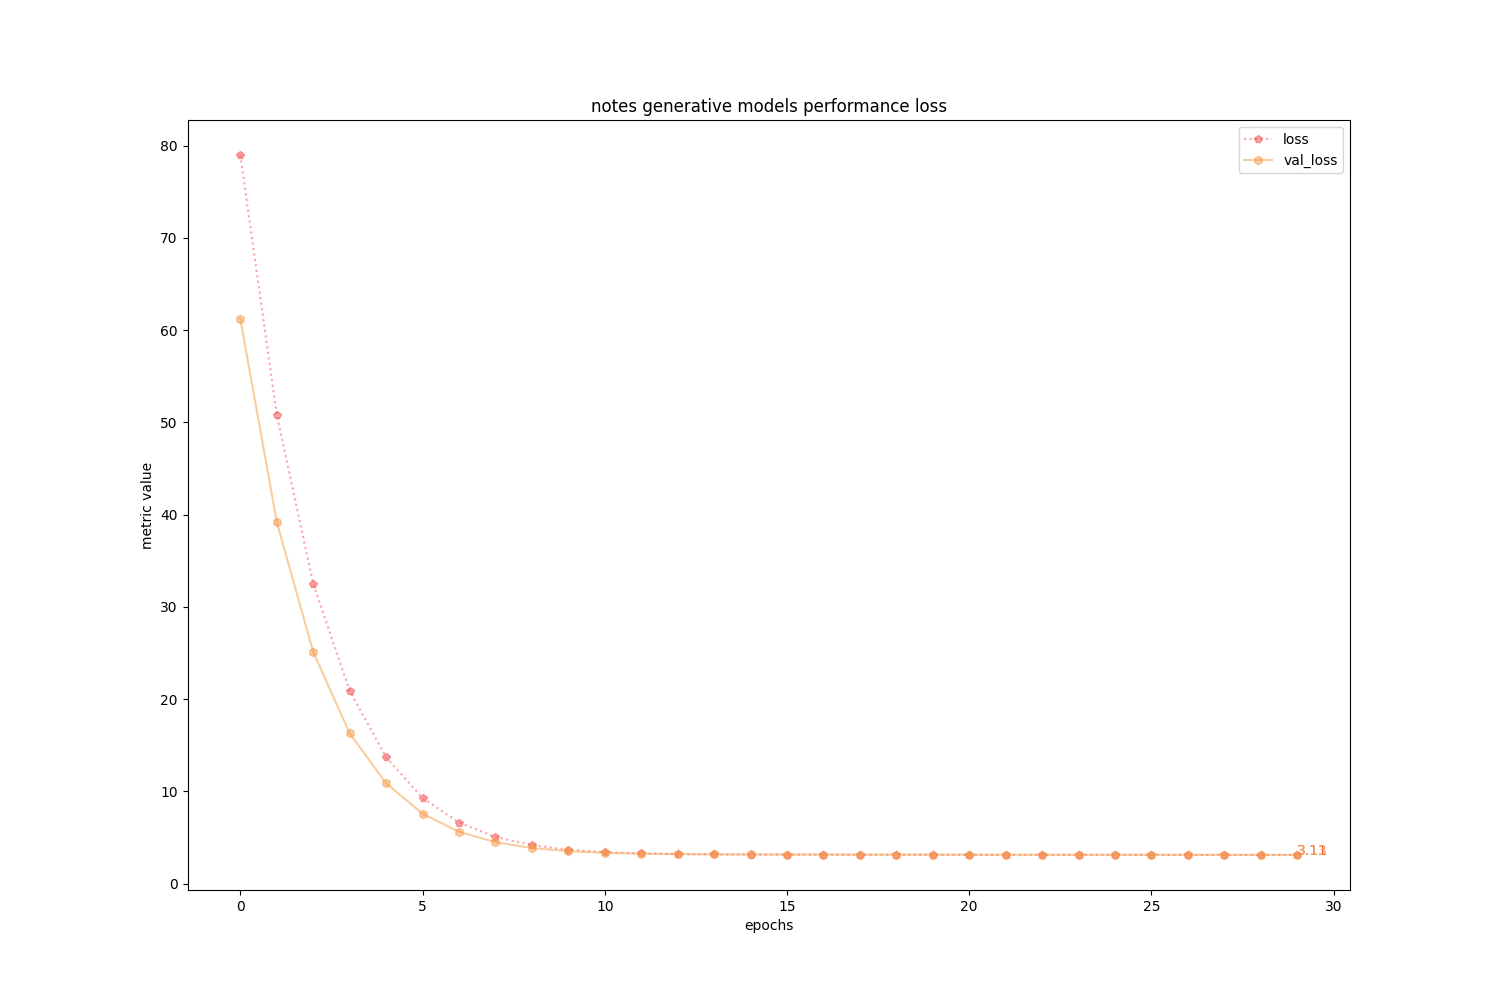
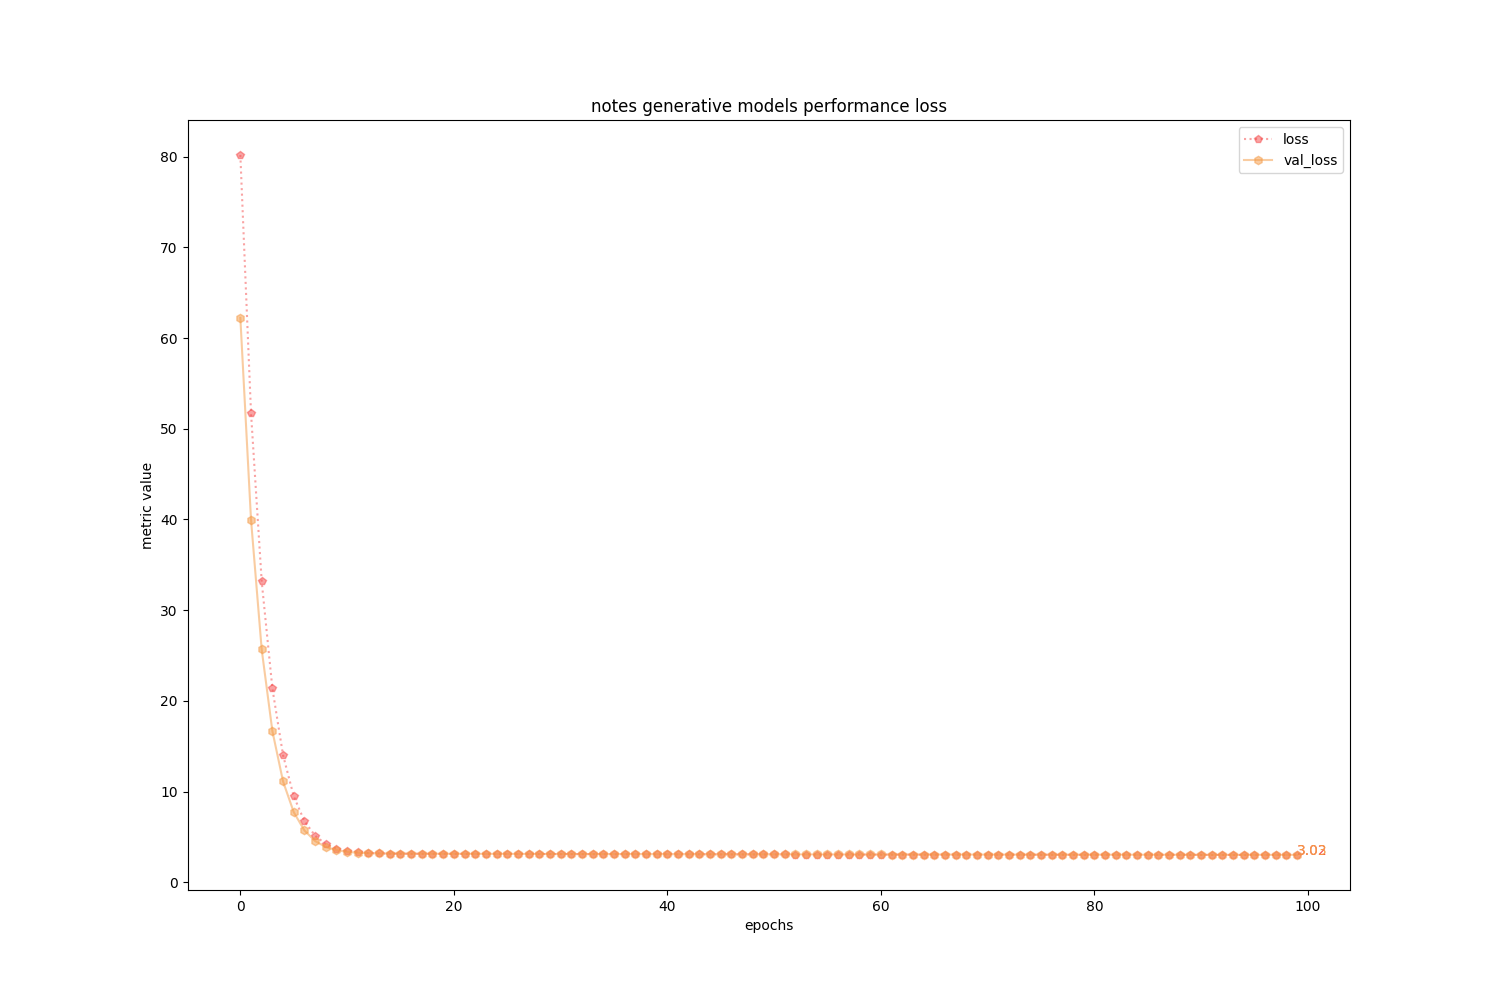
trained new model

diff --git a/modelling/training.py b/modelling/training.py
@@ -1,6 +1,4 @@
 # main model training here
-from models.arcs import GenPhiloTextA as Model
-# from models.arcs import GenPhiloTextB as Model
 from utilities.preprocessors import preprocess, get_chars, map_value_to_index, init_sequences_b, decode_predictions
 from utilities.loaders import load_file
 from utilities.visualizers import export_results
@@ -20,6 +18,7 @@ if __name__ == "__main__":
         # instantiate parser to take args from user in command line
         parser = ArgumentParser()
         parser.add_argument('-d', type=str, default="shakespeare", help="what text dataset/corpus to train model on")
+        parser.add_argument('--model', type=str, default="GenPhiloTextA", help="what model to use")
         parser.add_argument('--emb_dim', type=int, default=32, help='number of features to use in character embedding matrix/lookup')
         parser.add_argument('-n_a', type=int, default=64, help='number of units in an LSTM cell')
         parser.add_argument('-T_x', type=int, default=100, help='length (+ 1) of each partitioned sequence in the corpus')
@@ -38,9 +37,8 @@ if __name__ == "__main__":
         chars = get_chars(corpus)
         char_to_idx = map_value_to_index(chars)
         idx_to_char = map_value_to_index(chars, inverted=True)
-        print("loading corpus successful!\n")
-
         n_unique = len(char_to_idx.get_vocabulary())
+        print("loading corpus successful!\n")
 
         # create dataset X and Y which will have shapes (m, T_x) 
         # and (m, T_y, n_unique) respectively
@@ -61,36 +59,44 @@ if __name__ == "__main__":
         sample_h = tf.zeros(shape=(1, args.n_a))
         sample_c = tf.zeros(shape=(1, args.n_a))
 
-        # instantiate architecture of, build, and load model
-        model = Model(
-            emb_dim=args.emb_dim, 
-            n_a=args.n_a, 
-            n_unique=n_unique, 
-            dense_layers_dims=args.dense_layers_dims + [n_unique], 
-            lambda_=args.lambda_, 
-            drop_prob=args.drop_prob,
-            normalize=args.normalize)
-        
-        # model = Model(
-        #     emb_dim=args.emb_dim, 
-        #     n_a=args.n_a, 
-        #     n_unique=n_unique, 
-        #     T_x=args.T_x, 
-        #     dense_layers_dims=args.dense_layers_dims + [n_unique], 
-        #     lambda_=args.lambda_, 
-        #     drop_prob=args.drop_prob,
-        #     normalize=args.normalize)
+        if args.model.lower() == "genphilotexta":
+            from models.arcs import GenPhiloTextA as Model
 
-        model(X)
+            # instantiate architecture of, build, and load model
+            model = Model(
+                emb_dim=args.emb_dim, 
+                n_a=args.n_a, 
+                n_unique=n_unique, 
+                dense_layers_dims=args.dense_layers_dims + [n_unique], 
+                lambda_=args.lambda_, 
+                drop_prob=args.drop_prob,
+                normalize=args.normalize)
+            
+            input = X
+        elif args.model.lower() == "genphilotextb":
+            from models.arcs import GenPhiloTextB as Model
 
-        # model([sample_input, sample_h, sample_c])
-        
+            model = Model(
+                emb_dim=args.emb_dim, 
+                n_a=args.n_a, 
+                n_unique=n_unique, 
+                T_x=args.T_x, 
+                dense_layers_dims=args.dense_layers_dims + [n_unique], 
+                lambda_=args.lambda_, 
+                drop_prob=args.drop_prob,
+                normalize=args.normalize)
+            
+            input = [X, h_0, c_0]
+        else:
+            raise RuntimeError("Model chosen does not exist.")
+            
+        model(input)
         print(model.summary(), end='\n')
-
+        
         # define loss, optimizer, and metrics and compile
         opt = Adam(learning_rate=args.alpha, beta_1=0.9, beta_2=0.999)
         loss = cce_loss(from_logits=True)
-        metrics = [CategoricalAccuracy(), cce_metric(from_logits=True)]
+        metrics = [CategoricalAccuracy(), cce_metric(from_logits=True), 'accuracy']
         model.compile(loss=loss, optimizer=opt, metrics=metrics)
 
         # define checkpoint and early stopping callback to save
@@ -98,29 +104,26 @@ if __name__ == "__main__":
         # of validation loss for 10 consecutive epochs
         weights_path = f"./saved/weights/{args.d}_{model.name}" + "_{epoch:02d}_{val_loss:.4f}.h5"
         checkpoint = ModelCheckpoint(weights_path, monitor='val_loss', verbose=1, save_best_only=True, save_weights_only=True, mode='min')
-        stopper = EarlyStopping(monitor='val_loss', patience=10)
+        stopper = EarlyStopping(monitor='val_loss', patience=5)
         callbacks = [checkpoint, stopper]
 
         # being training model
         print("commencing model training...\n")
-        history = model.fit(X, Y,
+        history = model.fit(input, Y,
             epochs=args.n_epochs, 
             batch_size=args.batch_size, 
             callbacks=callbacks,
             validation_split=0.3,
             verbose=2)
         
-        # history = model.fit([X, h_0, c_0], Y, 
-        #     epochs=args.n_epochs, 
-        #     batch_size=args.batch_size, 
-        #     callbacks=callbacks,
-        #     validation_split=0.3,
-        #     verbose=2)
-        
         # export png iamge of results
         export_results(history, args.d, ['loss', 'val_loss'], image_only=False)
+        export_results(history, args.d, ['categorical_crossentropy', 'val_categorical_crossentropy'], image_only=False)
+        export_results(history, args.d, ['accuracy', 'val_accuracy'], image_only=False)
 
 
     except ValueError as e:
         print(e)
-        print("You have entered an unpermitted value for the number of timesteps T_x. Try a higher value")
+
+    except RuntimeError as e:
+        print(e)

diff --git a/modelling/utilities/preprocessors.py b/modelling/utilities/preprocessors.py
@@ -219,7 +219,7 @@ def init_sequences_b(corpus: str, char_to_idx: dict, T_x: int):
     """
 
     if T_x == 0:
-        raise ValueError("sequence length T_x cannot be 0. Choose a value above 0.")
+        raise ValueError("You have entered an unpermitted value for the number of timesteps T_x. Sequence length T_x cannot be 0. Choose a value above 0.")
 
     # get total length of corpus
     total_len = len(corpus)
